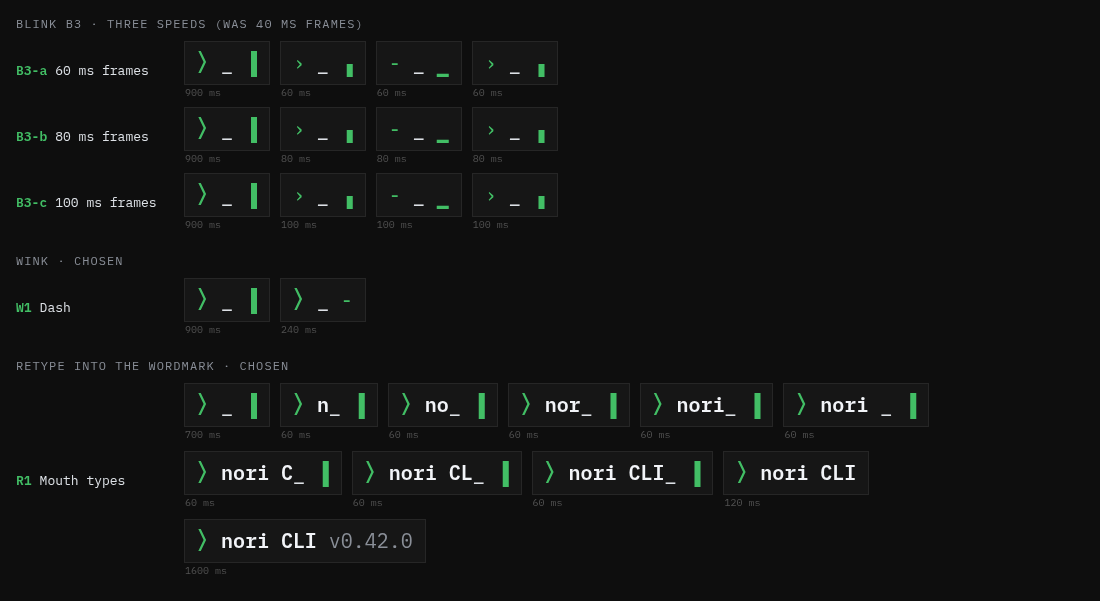
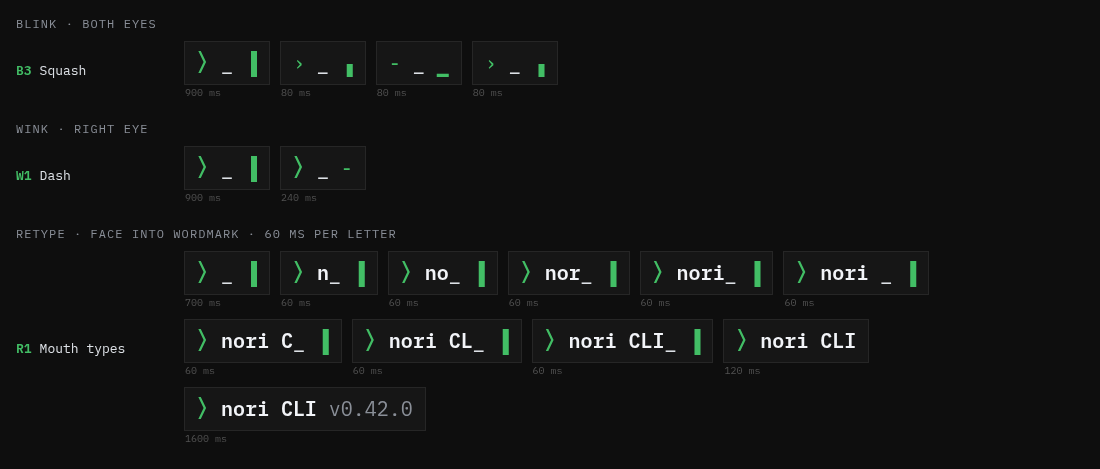
design(brand): record the chosen face, blink, wink, and retype frames
🤖 Generated with [Nori](https://noriagentic.com)

diff --git a/docs/design/cli-brand-marks/index.html b/docs/design/cli-brand-marks/index.html
@@ -2,7 +2,7 @@
 <html lang="en">
 <head>
 <meta charset="utf-8">
-<title>Nori CLI face: study 02</title>
+<title>Nori CLI face: final face set</title>
 <meta name="viewport" content="width=device-width,initial-scale=1">
 <!-- Fonts are optional. Cells are fixed-width boxes, so the grid holds with any fallback. -->
 <link href="https://fonts.googleapis.com/css2?family=IBM+Plex+Mono:wght@400;600&display=swap" rel="stylesheet">
@@ -34,7 +34,7 @@
 </style>
 </head>
 <body>
-<h1>Nori CLI face · study 02</h1>
+<h1>Nori CLI face · final face set</h1>
 <p class="sub">Face <b>〉_ ▐</b> and wordmark <b>〉nori CLI</b>. Eyes green, mouth foreground. Design study, synthetic content. Every frame keeps its cells.</p>
 <div id="bar">
   <label>Speed <select id="speed"><option value="1">1×</option><option value="0.5">0.5×</option><option value="0.2">0.2×</option></select></label>
@@ -67,15 +67,13 @@ function typing(build) {            // build(i, typedText) -> frame string
 }
 
 const GROUPS = [
- {key:'blink', title:'Blink B3 · three speeds (was 40 ms frames)', rest:REST, opts:[
-  {id:'B3-a', name:'60 ms frames', note:'Squash blink, 180 ms in total.', f:[fr(REST,900), fr('{g}› {f}_ {g}▗',60), fr('{g}- {f}_ {g}▁',60), fr('{g}› {f}_ {g}▗',60)]},
-  {id:'B3-b', name:'80 ms frames', note:'Squash blink, 240 ms in total.', f:[fr(REST,900), fr('{g}› {f}_ {g}▗',80), fr('{g}- {f}_ {g}▁',80), fr('{g}› {f}_ {g}▗',80)]},
-  {id:'B3-c', name:'100 ms frames', note:'Squash blink, 300 ms in total.', f:[fr(REST,900), fr('{g}› {f}_ {g}▗',100), fr('{g}- {f}_ {g}▁',100), fr('{g}› {f}_ {g}▗',100)]},
+ {key:'blink', title:'Blink · both eyes', rest:REST, opts:[
+  {id:'B3', name:'Squash', note:'Eyes shrink, close, reopen. 80 ms per frame, 240 ms in total.', f:[fr(REST,900), fr('{g}› {f}_ {g}▗',80), fr('{g}- {f}_ {g}▁',80), fr('{g}› {f}_ {g}▗',80)]},
  ]},
- {key:'wink', title:'Wink · chosen', rest:REST, opts:[
+ {key:'wink', title:'Wink · right eye', rest:REST, opts:[
   {id:'W1', name:'Dash', note:'Block becomes a dash, holds 240 ms.', f:[fr(REST,900), fr('{g}〉{f}_ {g}-',240)]},
  ]},
- {key:'retype', title:'Retype into the wordmark · chosen', rest:WORD, opts:[
+ {key:'retype', title:'Retype · face into wordmark · 60 ms per letter', rest:WORD, opts:[
   {id:'R1', name:'Mouth types', note:'The underscore is the cursor. It pushes the right eye along.',
     f:[fr(REST,700), ...typing((i,t)=>`{g}〉{b}${t}{f}_ {g}▐`), fr('{g}〉{b}nori CLI{f}_ {g}▐',240), fr('{g}〉{b}nori CLI',120), fr(WORD,1600)]},
  ]},

diff --git a/docs/design/cli-brand-marks/README.md b/docs/design/cli-brand-marks/README.md
@@ -1,4 +1,4 @@
-# Nori CLI face: study 04
+# Nori CLI face and wordmark
 
 Design study only. Nothing here changes product code. All content is synthetic.
 
@@ -6,21 +6,27 @@ Design study only. Nothing here changes product code. All content is synthetic.
 - Wordmark: `〉nori CLI` followed by a dim version string.
 - `〉` is U+3009 RIGHT ANGLE BRACKET. It takes 2 terminal cells, so the face is 5 cells.
 
-Open `index.html` to play every option (speed, size, all-frames view).
+Open `index.html` to play the animations (speed, size, all-frames view).
 `frames.txt` holds the same frames as plain text.
 
 ![All frames](img/all-frames.png)
 
-Chosen by Cliff: blink B3 (squash), wink W1 (dash), retype R1 (mouth types).
-Open: blink speed, 60, 80 or 100 ms per frame.
+## Chosen by Cliff
 
-![Blink speeds](img/blink.gif)
+| Animation | Frames | Timing | Preview |
+|---|---|---|---|
+| Blink (B3, squash) | `〉_ ▐` `› _ ▗` `- _ ▁` `› _ ▗` | 80 ms per frame | ![](img/blink.gif) |
+| Wink (W1, dash) | `〉_ ▐` `〉_ -` | dash holds 240 ms | ![](img/wink.gif) |
+| Retype into the wordmark (R1) | the underscore types `nori CLI` and pushes the right eye along | 60 ms per letter | ![](img/retype.gif) |
 
-Dropped: every look option and the working hum.
+## Dropped
+
+- Looking left and right. A look must move both eyes in the same frame with the mouth
+  still, and no option tried so far looked right.
+- A working hum on the mouth.
 
 ## Notes
 
-- Every option changes glyphs in place. No frame changes the width of the cells it uses,
-  except the retype, which grows to the wordmark.
-- `▗` and `▁` need a font with block elements. `-`, `·` and `_` are the safe choices.
+- Blink and wink change glyphs in place and never change the 5-cell width.
+- `▗` and `▁` need a font with block elements.
 - Earlier studies are in this branch's history.
